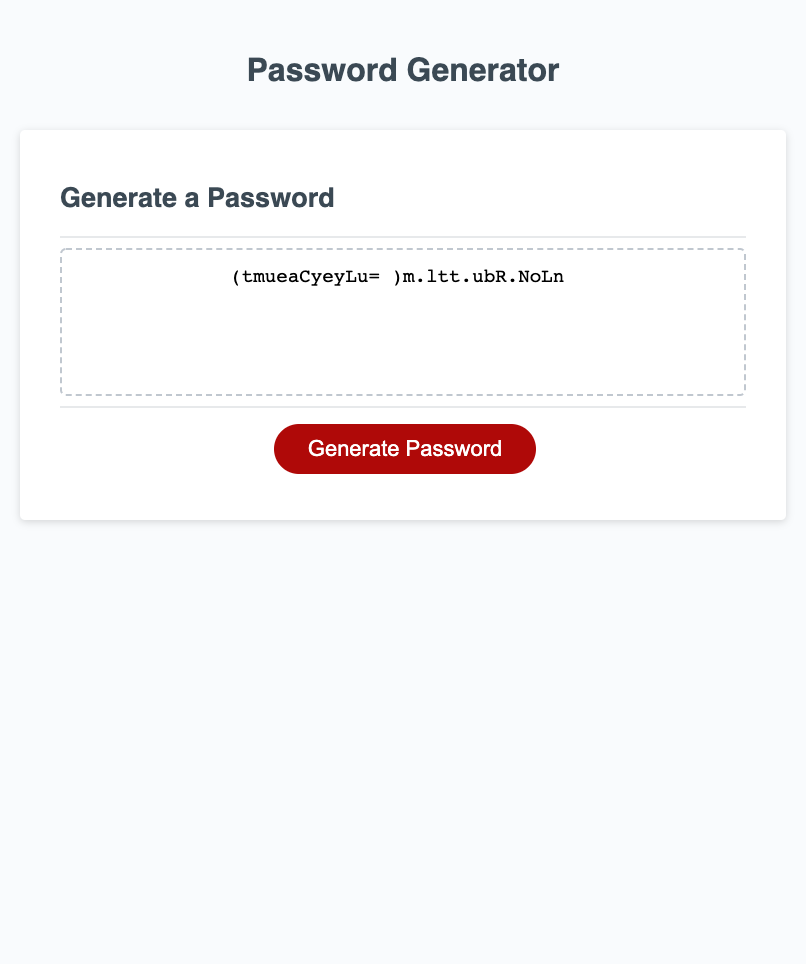
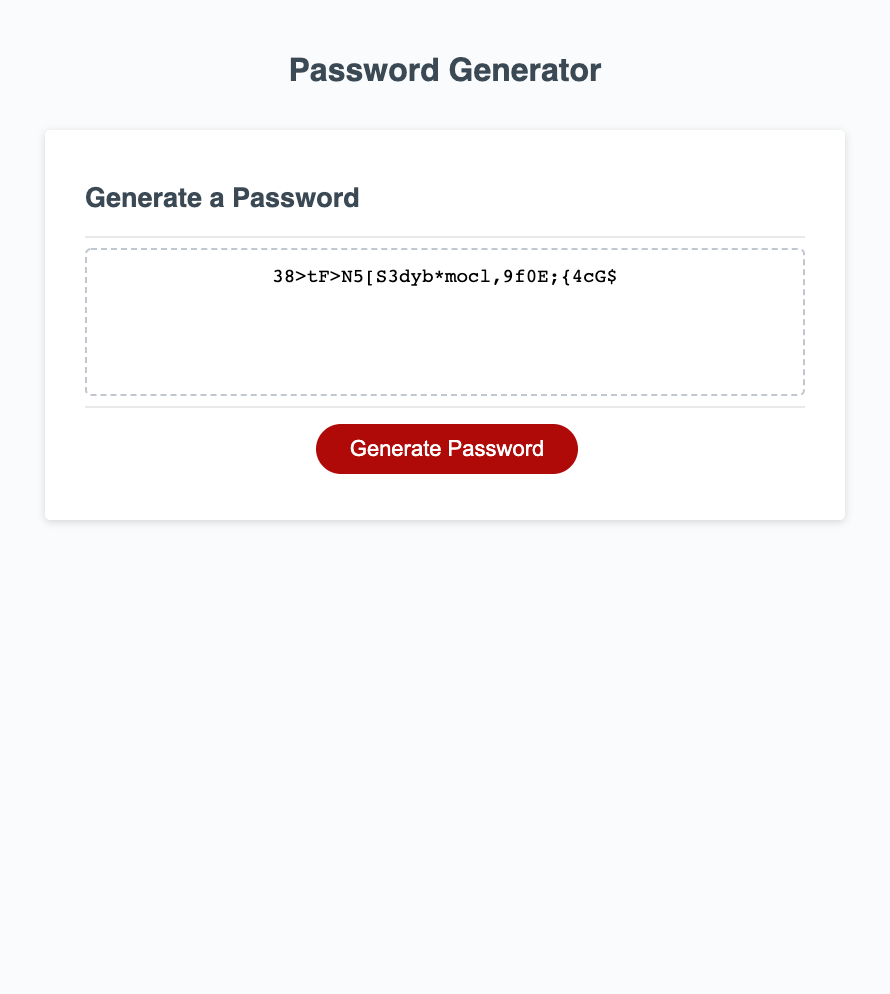
updated js code for more randomization

diff --git a/script.js b/script.js
@@ -14,90 +14,82 @@ function writePassword() {
 // Add event listener to generate button
 generateBtn.addEventListener('click', writePassword);
 
-// ----------------------------------------------------------------
-// PROMPT BOX + CONFIRM BOX + FUNCTION ----------------------------
-// ----------------------------------------------------------------
+// --------------------------------------------------------------------------------------
+// CHARACTER CAR LIST -------------------------------------------------------------------
+// --------------------------------------------------------------------------------------
+
+var numbersList = '0123456789';
+var lowersList = 'abcdefghijklmnopqrstuvwxyz';
+var uppersList = 'ABCDEFGHIJKLMNOPQRSTUVWXYZ';
+var symbolsList = '!"#$%&()*+,-./:;<=>?@[]^_`{|}~';
+
+// --------------------------------------------------------------------------------------
+// PROMPT BOX + CONFIRM BOX + FUNCTION --------------------------------------------------
+// --------------------------------------------------------------------------------------
 
 function generatePassword() {
   var masterCharList = '';
 
-  // TRACKER | AT LEAST 1 TYPE ---------------------------------
+  // After each confirmed character, 1 character from that list is reserved in the final password
+  var passwordConfirmList = '';
+
+  // TRACKER | AT LEAST 1 TYPE --------------------------------------
   var trackerConfirm = [];
 
-  // LENGTH PROMPT + CHECK FOR CHARACTER LENGTH ----------------------------------------
-  var length = prompt('Enter a number from 8 to 128 for password length.');
+  // LENGTH PROMPT + CHECK FOR CHARACTER LENGTH ---------------------
+  var lengthPrompt = prompt('Enter a number from 8 to 128 for password length.');
 
-  if (length < 8) {
+  if (lengthPrompt < 8) {
     alert('💔  Try Again! Too short. 💔 \r\n Password length needs to be between 8 & 128.');
     return '';
-  } else if (length > 128) {
+  } else if (lengthPrompt > 128) {
     alert('💔  Try Again! Too long. 💔 \r\n Password length needs to be between 8 & 128.');
     return '';
   }
 
-  // CONFIRM CHARACTER BOX + PUSH FOR ANY CANCELS TO TRACKER ---------------------------------
-  var numbers = confirm('Do you want to include numbers?');
-  if (numbers) {
-    masterCharList += getNumberChar;
+  // CONFIRM CHARACTER BOX + PUSH FOR ANY CANCELS TO TRACKER --------
+  var numbersPrompt = confirm('Do you want to include numbers?');
+  if (numbersPrompt) {
+    masterCharList += numbersList;
+    passwordConfirmList += numbersList.charAt(Math.random() * numbersList.length);
   } else {
-    trackerConfirm.push(numbers);
+    trackerConfirm.push(numbersPrompt);
   }
 
-  var lowercase = confirm('Do you want to include lowercase letters?');
-  if (lowercase) {
-    masterCharList += getLowerChar;
+  var lowercasePrompt = confirm('Do you want to include lowercase letters?');
+  if (lowercasePrompt) {
+    masterCharList += lowersList;
+    passwordConfirmList += lowersList.charAt(Math.random() * lowersList.length);
   } else {
-    trackerConfirm.push(lowercase);
+    trackerConfirm.push(lowercasePrompt);
   }
 
-  var uppercase = confirm('Do you want to include uppercase letters?');
-  if (uppercase) {
-    masterCharList += getUpperChar;
+  var uppercasePrompt = confirm('Do you want to include uppercase letters?');
+  if (uppercasePrompt) {
+    masterCharList += uppersList;
+    passwordConfirmList += uppersList.charAt(Math.random() * uppersList.length);
   } else {
-    trackerConfirm.push(uppercase);
+    trackerConfirm.push(uppercasePrompt);
   }
 
-  var symbols = confirm('Do you want to include symbols?');
-  if (symbols) {
-    masterCharList += getSymbolChar;
+  var symbolsPrompt = confirm('Do you want to include symbols?');
+  if (symbolsPrompt) {
+    masterCharList += symbolsList;
+    passwordConfirmList += symbolsList.charAt(Math.random() * symbolsList.length);
   } else {
-    trackerConfirm.push(symbols);
+    trackerConfirm.push(symbolsPrompt);
   }
 
-  // CHECK | AT LEAST 1 TYPE ---------------------------------------
+  // CHECK | AT LEAST 1 TYPE ----------------------------------------
   if (trackerConfirm.length === 4) {
     alert('💔  Try Again! 💔 \r\n At least 1 type needs to be selected.');
     return '';
   }
 
   var password = '';
-
-  for (let i = 0; i < length; i++) {
+  console.log(masterCharList);
+  for (let i = 0; i < lengthPrompt - passwordConfirmList.length; i++) {
     password += masterCharList[Math.floor(Math.random() * masterCharList.length)];
   }
-  return password;
-}
-
-// ----------------------------------------------------------------
-// RANDOM CHARACTER GENERATORS ------------------------------------
-// ----------------------------------------------------------------
-
-function getNumberChar() {
-  var numbersList = '0123456789';
-  return numbersList[Math.floor(Math.random() * numbersList.length)];
-}
-
-function getLowerChar() {
-  var lowersList = 'abcdefghijklmnopqrstuvwxyz';
-  return lowersList[Math.floor(Math.random() * lowersList.length)];
-}
-
-function getUpperChar() {
-  var uppersList = 'ABCDEFGHIJKLMNOPQRSTUVWXYZ';
-  return uppersList[Math.floor(Math.random() * uppersList.length)];
-}
-
-function getSymbolChar() {
-  var symbolsList = '!"#$%&()*+,-./:;<=>?@[]^_`{|}~';
-  return symbolsList[Math.floor(Math.random() * symbolsList.length)];
+  return password + passwordConfirmList;
 }

diff --git a/README.md b/README.md
@@ -97,9 +97,11 @@ When a user clicks on the “Generate Password”:
 
      i. If include – run the random function and add to the master character list
 
-     ii. If not – push false to tracker. Tracker is an array just so the check at the end is comparing against value 4 and not 20. For more information, see section below called “Learning Points”.
+     ii. If include, make sure to reserve one randomly selected spot in the final password string for each confirmed character type. To achieve this, I created a passwordConfirmPage variable to house these characters. The length will reduced when the final loop occurs.
 
-4. Finally, after all the checks confirmed good, I created the loop to randomly selecting characters from the master list.
+     iii. If not – push false to tracker. Tracker is an array just so the check at the end is comparing against value 4 and not 20. For more information, see section below called “Learning Points”.
+
+4. Finally, after all the checks confirmed good, I created the loop to randomly selecting characters from the master list based on a length inputed less the saved characters from each confirmed character type.
 
 ## Other Key Learning Points: When to use Array.push() & when to use Addition Assignment +=
 
